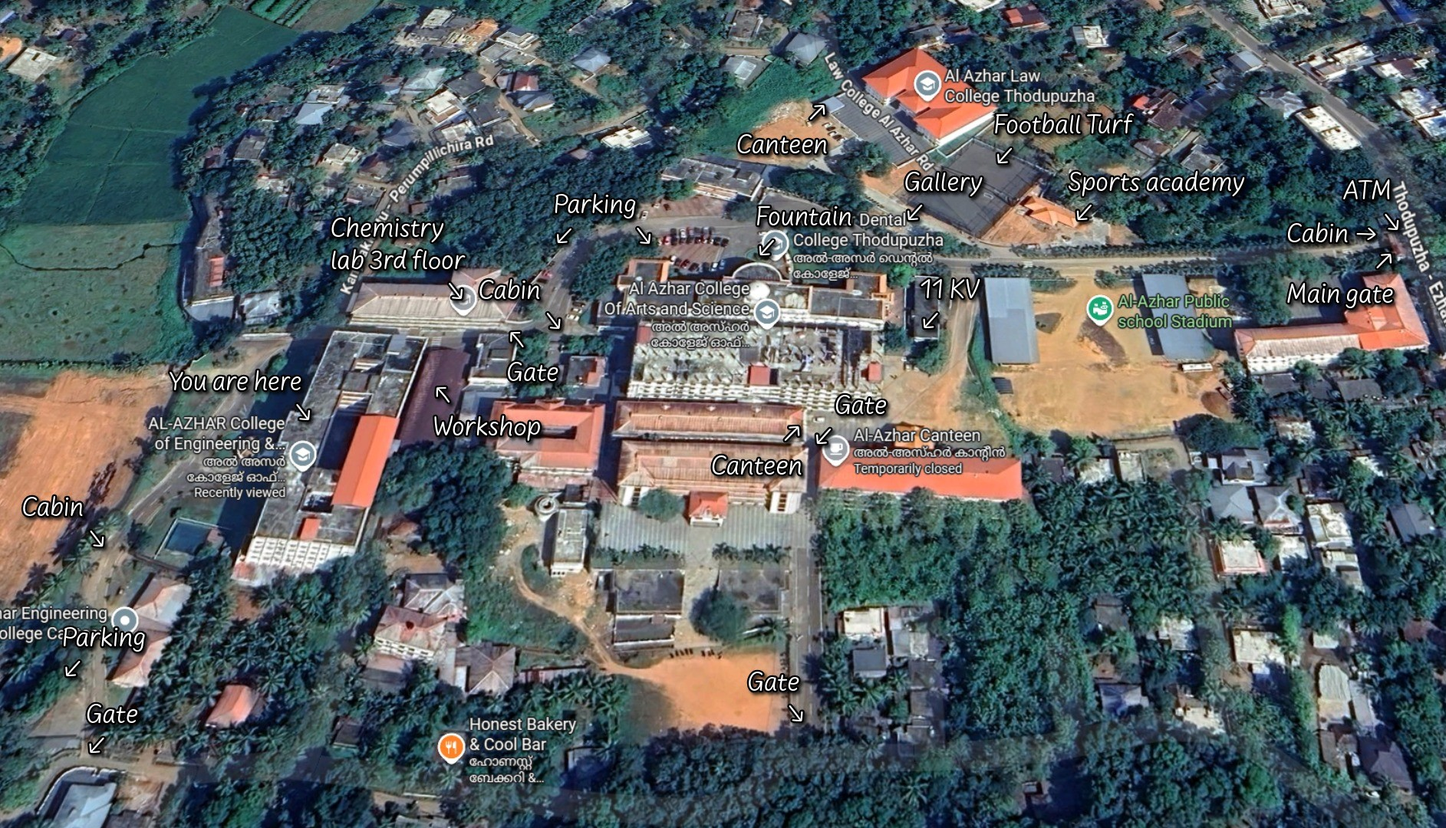
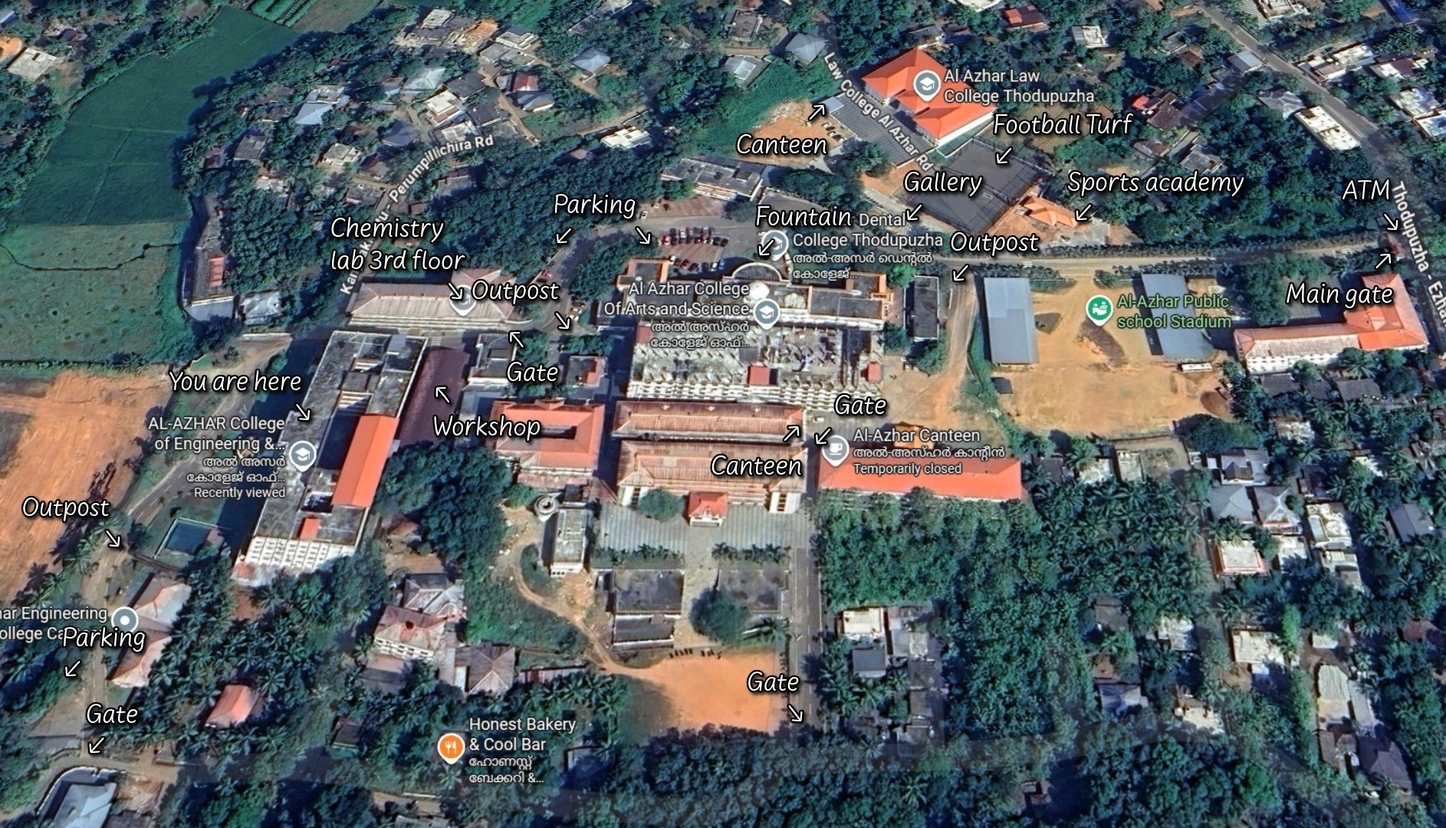
update map and other changes

diff --git a/js/config.js b/js/config.js
@@ -16,7 +16,7 @@ const GAME_CONFIG = {
     "Mechanical Workshop": "Metal, gears and machines that roar,\nEngineers shaping ideas at the core.",
     "Football Turf": "Green ground where goals are scored,\nCheers rise high with every reward.",
     "Security Cabin": "Eyes that watch both day and night,\nGuarding the campus with silent might.\nFind the place where safety stands.",
-    "Parking Area": "Rows of wheels patiently stay,\nWaiting for journeys at the end of the day.",
+    "Parking Area": "Rows of wheels patiently stay,\nWaiting for journeys at the end of the day. \nKuracheeee kudikooooo. ",
     "Main Gate": "Every story begins right here,\nThe gateway that welcomes all.",
     "Notice Boards": "Messages pinned for all to see,\nNews and updates for you and me.\nFind the place where announcements live."
   },
